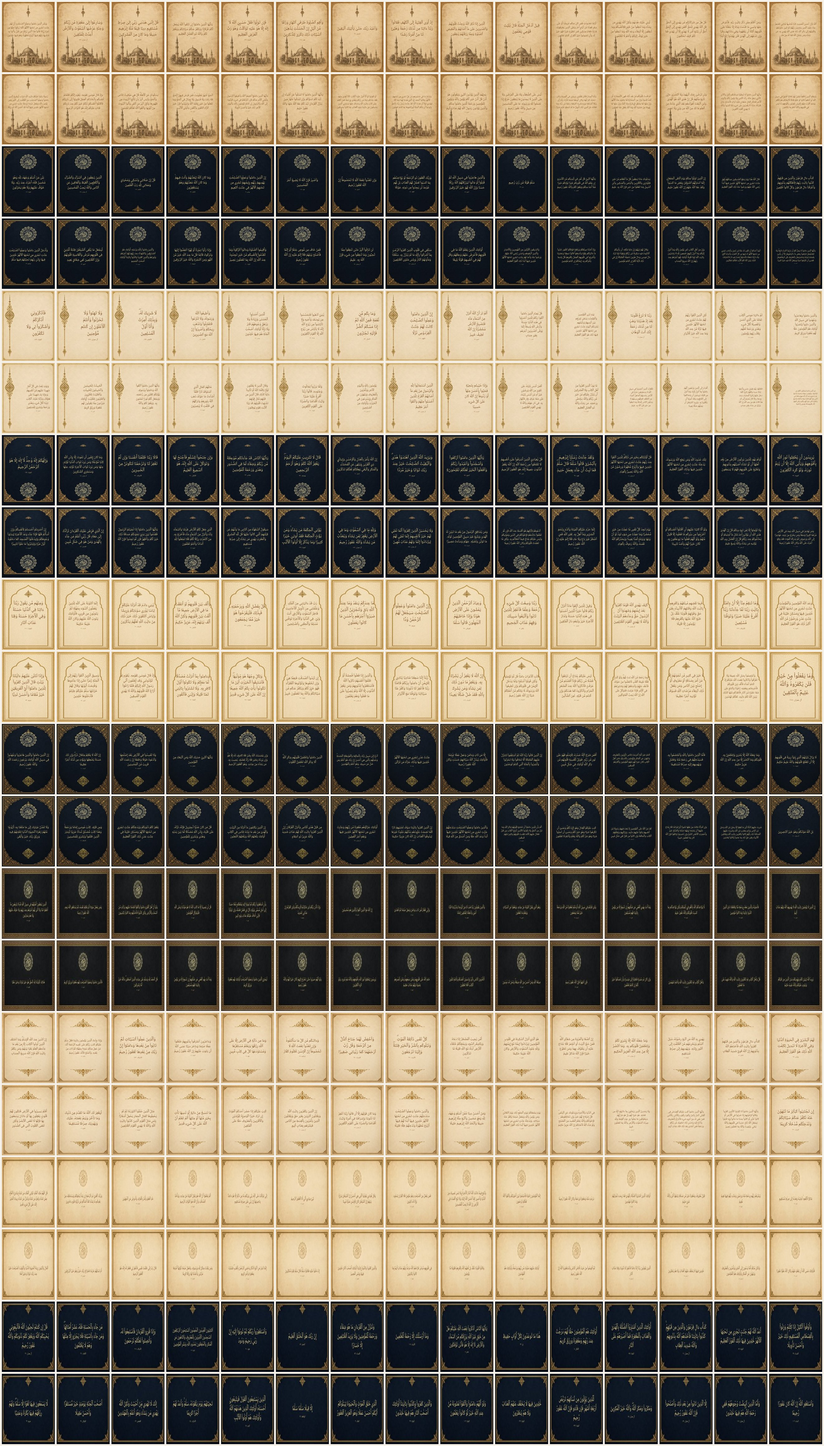
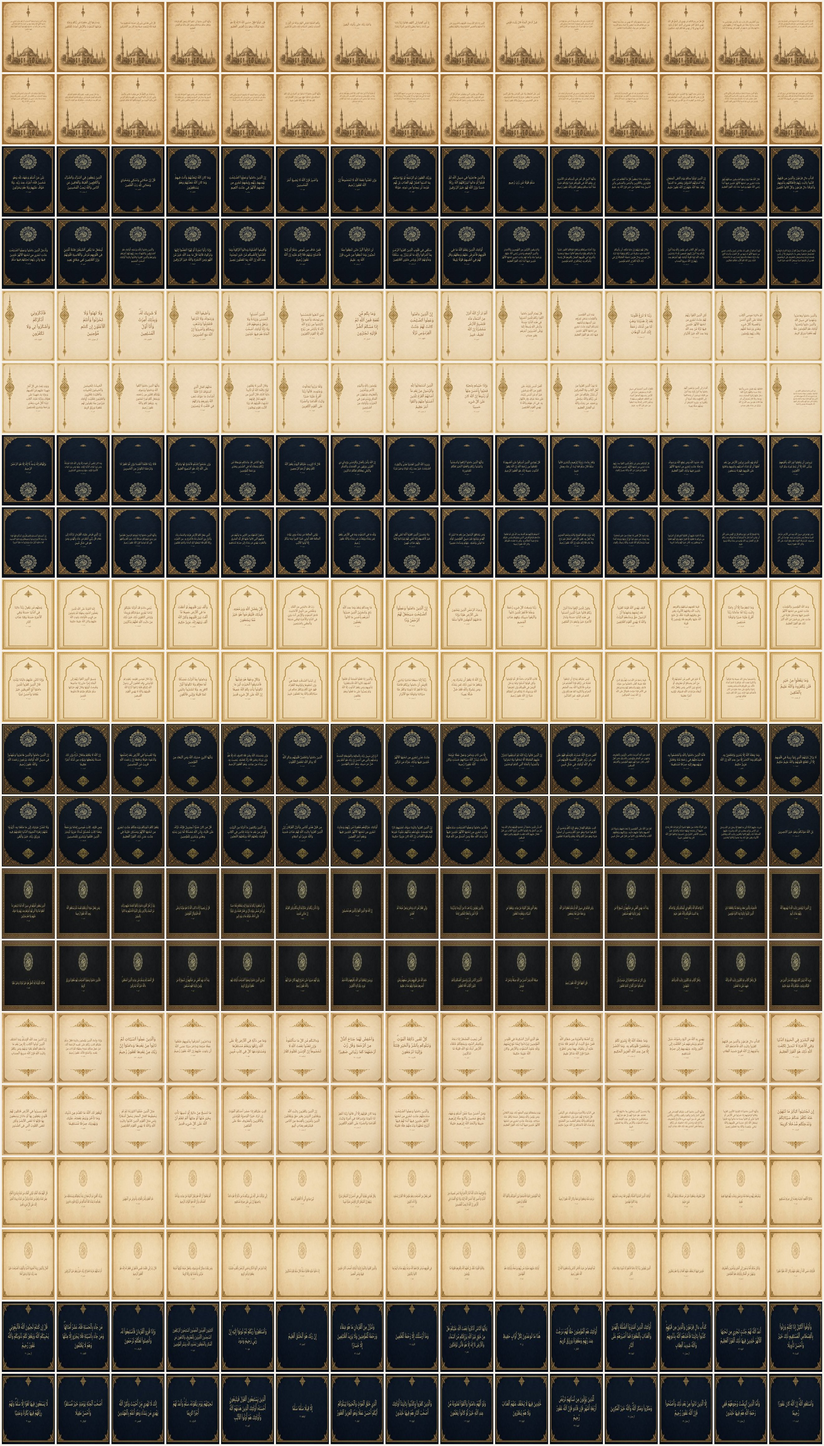
safe-band layout law: D01/D04/D05/D07 text fully clears ornaments (>=1.4cm)

diff --git a/deliverables/index.html b/deliverables/index.html
@@ -32,18 +32,18 @@
     <h2>👁 الخلفيات العشر للموافقة (النسخة النهائية v14 — ٣٠٠ آية مختلفة)</h2>
     <p style="color:#b9b2a0;font-size:.9rem;margin-bottom:10px">دي الخلفيات النهائية وفيها كل التعديلات المطلوبة. لو الصور قديمة عندك اضغط <b>Ctrl+Shift+R</b> لتحديث الصفحة.</p>
     <div class="grid" style="grid-template-columns:repeat(auto-fill,minmax(200px,1fr))">
-      <div><div style="color:#ffe9a8;font-weight:bold">خلفية ١</div><img class="prev" src="plates/plate_R1.jpg?v=15"></div>
-      <div><div style="color:#ffe9a8;font-weight:bold">خلفية ٢</div><img class="prev" src="plates/plate_R2.jpg?v=15"></div>
-      <div><div style="color:#ffe9a8;font-weight:bold">خلفية ٣</div><img class="prev" src="plates/plate_R3.jpg?v=15"></div>
-      <div><div style="color:#ffe9a8;font-weight:bold">خلفية ٤</div><img class="prev" src="plates/plate_R4.jpg?v=15"></div>
-      <div><div style="color:#ffe9a8;font-weight:bold">خلفية ٥</div><img class="prev" src="plates/plate_R5.jpg?v=15"></div>
-      <div><div style="color:#ffe9a8;font-weight:bold">خلفية ٦</div><img class="prev" src="plates/plate_R6.jpg?v=15"></div>
-      <div><div style="color:#ffe9a8;font-weight:bold">خلفية ٧</div><img class="prev" src="plates/plate_R7.jpg?v=15"></div>
-      <div><div style="color:#ffe9a8;font-weight:bold">خلفية ٨</div><img class="prev" src="plates/plate_R8.jpg?v=15"></div>
-      <div><div style="color:#ffe9a8;font-weight:bold">خلفية ٩</div><img class="prev" src="plates/plate_R9.jpg?v=15"></div>
-      <div><div style="color:#ffe9a8;font-weight:bold">خلفية ١٠</div><img class="prev" src="plates/plate_R10.jpg?v=15"></div>
+      <div><div style="color:#ffe9a8;font-weight:bold">خلفية ١</div><img class="prev" src="plates/plate_R1.jpg?v=20"></div>
+      <div><div style="color:#ffe9a8;font-weight:bold">خلفية ٢</div><img class="prev" src="plates/plate_R2.jpg?v=20"></div>
+      <div><div style="color:#ffe9a8;font-weight:bold">خلفية ٣</div><img class="prev" src="plates/plate_R3.jpg?v=20"></div>
+      <div><div style="color:#ffe9a8;font-weight:bold">خلفية ٤</div><img class="prev" src="plates/plate_R4.jpg?v=20"></div>
+      <div><div style="color:#ffe9a8;font-weight:bold">خلفية ٥</div><img class="prev" src="plates/plate_R5.jpg?v=20"></div>
+      <div><div style="color:#ffe9a8;font-weight:bold">خلفية ٦</div><img class="prev" src="plates/plate_R6.jpg?v=20"></div>
+      <div><div style="color:#ffe9a8;font-weight:bold">خلفية ٧</div><img class="prev" src="plates/plate_R7.jpg?v=20"></div>
+      <div><div style="color:#ffe9a8;font-weight:bold">خلفية ٨</div><img class="prev" src="plates/plate_R8.jpg?v=20"></div>
+      <div><div style="color:#ffe9a8;font-weight:bold">خلفية ٩</div><img class="prev" src="plates/plate_R9.jpg?v=20"></div>
+      <div><div style="color:#ffe9a8;font-weight:bold">خلفية ١٠</div><img class="prev" src="plates/plate_R10.jpg?v=20"></div>
     </div>
-    <img class="prev" src="plates/APPROVAL_10_backgrounds.jpg?v=15" style="margin-top:14px">
+    <img class="prev" src="plates/APPROVAL_10_backgrounds.jpg?v=20" style="margin-top:14px">
   </div>
 
   <div class="note">📤 عايز تبعتلي صورة مرجعية؟ <a href="/uploader" style="color:#ffe9a8;font-weight:bold;text-decoration:underline">اضغط هنا للرفع المباشر ⬆</a></div>
@@ -60,17 +60,17 @@
       <a class="dl" href="zips/Artivo_Mockups_Golden-Frame_part1.zip" download>تحميل الموك-أبس — الجزء ١<span class="sz">ZIP × ١٠٠</span></a>
       <a class="dl" href="zips/Artivo_Mockups_Golden-Frame_part2.zip" download>تحميل الموك-أبس — الجزء ٢<span class="sz">ZIP × ١٠٠</span></a>
       <a class="dl" href="zips/Artivo_Mockups_Golden-Frame_part3.zip" download>تحميل الموك-أبس — الجزء ٣<span class="sz">ZIP × ١٠٠</span></a>
-      <a class="dl" href="previews/MOCKUPS_newstyle_sample.jpg" target="_blank">معاينة الموك-أبس<span class="sz">JPG</span></a>
+      <a class="dl" href="previews/MOCKUPS_newstyle_sample.jpg?v=20" target="_blank">معاينة الموك-أبس<span class="sz">JPG</span></a>
     </div>
   </div>
 
   <div class="card">
     <h2>👁 معاينة التصميمات</h2>
     <p style="color:#b9b2a0;font-size:.9rem;margin-bottom:4px">٣٠٠ تصميم كامل بتشكيل عثماني صحيح (١٠ خلفيات × ٣٠ آية مختلفة عن الجنة والرحمة والمغفرة والهداية):</p>
-    <img class="prev" src="previews/CONTACT_SHEET_landscape_90.jpg" alt="معاينة بالعرض">
+    <img class="prev" src="previews/CONTACT_SHEET_landscape_90.jpg?v=20" alt="معاينة بالعرض">
     <p style="color:#b9b2a0;font-size:.9rem;margin:14px 0 4px">(كل التصميمات في شبكات حسب الفصيلة)</p>
-    <img class="prev" src="previews/CONTACT_SHEET_portrait_210.jpg" alt="معاينة بالطول">
-    <img class="prev" src="previews/CONTACT_SHEET_all_300.jpg?v=15" alt="كل التصاميم">
+    <img class="prev" src="previews/CONTACT_SHEET_portrait_210.jpg?v=20" alt="معاينة بالطول">
+    <img class="prev" src="previews/CONTACT_SHEET_all_300.jpg?v=20" alt="كل التصاميم">
   </div>
 
   <footer>٣٠٠ تصميم • نصوص قرآنية متحقَّق منها حرفًا حرفًا • بدون أي اختلاط أرقام عربية/لاتينية</footer>

diff --git a/tools/build_masters.py b/tools/build_masters.py
@@ -32,18 +32,50 @@ SEPIA = (120, 74, 30)
 GOLD = (240, 214, 140)
 # plate layout: (fx0, fx1, fy0, fy1, ink)
 CFG = {
- 1:(0.08,0.92, 0.24,0.60, SEPIA),   # sepia mosque portrait (top cleared below pendant tip 0.225)
+ 1:(0.13,0.87, 0.22,0.47, SEPIA),   # sepia mosque portrait (clear band 0.225 pendant - 0.473 minaret)
  2:(0.10,0.90, 0.40,0.70, GOLD),    # navy portrait, medallion top
  3:(0.44,0.93, 0.24,0.78, SEPIA),   # cream left vine
- 4:(0.08,0.92, 0.26,0.64, GOLD),    # navy, medallion bottom, fleuron top (cleared both ends)
- 5:(0.14,0.86, 0.26,0.78, SEPIA),   # mughal arch
+ 4:(0.12,0.88, 0.34,0.61, GOLD),    # navy, medallion bottom, fleuron top (tip at 0.33 cleared)
+ 5:(0.19,0.81, 0.33,0.75, SEPIA),   # mughal arch (below arch inner curve, inside opening)
  6:(0.08,0.92, 0.40,0.68, GOLD),    # navy rich, medallion top, rhombus bottom
- 7:(0.10,0.90, 0.46,0.80, GOLD),    # charcoal landscape, ring emblem top
+ 7:(0.15,0.85, 0.46,0.80, GOLD),    # charcoal landscape (clear of side flourishes & ring)
  8:(0.12,0.88, 0.32,0.70, SEPIA),   # cream double flourish
  9:(0.10,0.90, 0.46,0.80, SEPIA),   # cream landscape, ring top
  10:(0.08,0.92, 0.28,0.83, GOLD),   # navy landscape palmette
 }
 DPI300_W, DPI300_H = 7087, 9449  # 60x80cm
+
+# Measured SAFE text bands (top,bottom) for plates with near-text ornaments.
+# Block is centered inside the band and font shrinks until the analytic ink
+# bounding box (ascenders/descenders included) lies fully inside the band.
+SAFE_BAND = {1:(0.245,0.455), 4:(0.345,0.605), 5:(0.345,0.725), 7:(0.47,0.81)}
+from artivo_text import line_metrics
+
+def _layout_boxes(vtext, caption, plate_id, W, H, zcx, iw, ih, fs_override=None):
+    """Return (lines, fs, boxes, y0). boxes=(x0,y0,x1,y1) pixel boxes incl. asc/desc."""
+    fx0, fx1, fy0, fy1, ink = CFG[plate_id]
+    fs_cap = fs_override if fs_override else int(ih/6.4)
+    lines, fs = fit_layout(vtext, int(iw*0.94), int(ih*0.72), fs_cap)
+    cap_fs = int(fs*0.42)
+    asc, desc = line_metrics(FONT, fs)
+    asc_c, desc_c = line_metrics(FONT, cap_fs)
+    vh = int(len(lines)*fs*1.52) + cap_fs*2
+    if plate_id in SAFE_BAND:
+        st, sb = SAFE_BAND[plate_id]
+        cy = (st+sb)/2*H
+    else:
+        cy = (fy0+fy1)/2*H
+    y0 = int(cy) - vh//2
+    boxes = []
+    y = y0
+    from artivo_text import measure as _measure
+    for ln in lines:
+        w = _measure(ln, FONT, fs)
+        boxes.append((int(zcx-w/2), y+int(fs/2)-asc, int(zcx+w/2), y+int(fs/2)+desc))
+        y += int(fs*1.52)
+    cw = _measure(caption, FONT, cap_fs)
+    boxes.append((int(zcx-cw/2), y+int(fs*0.30)-asc_c, int(zcx+cw/2), y+int(fs*0.30)+desc_c))
+    return lines, fs, boxes, y0
 
 def fit_layout(text, iw, ih, fontsize_cap):
     """Return (wordsplit_lines, fontsize) that fits zone iw x ih."""
@@ -76,11 +108,23 @@ def build(plate_id, verse, out_path, proof_path=None):
     zcx = int((fx0 + fx1) / 2 * W)
     iw = int((fx1 - fx0) * W)
     ih = int((fy1 - fy0) * H)
-    # tighter inner margins: text never touches plate ornaments/frame
-    lines, fs = fit_layout(verse['text'], int(iw*0.94), int(ih*0.72), int(ih/6.4))
+    # Safe-band enforcement (plates with near-by ornaments):
+    # shrink font until the analytic ink bounding box clears the band.
+    if plate_id in SAFE_BAND:
+        st, sb = SAFE_BAND[plate_id]
+        fs_cap = int(ih / 6.4)
+        for _attempt in range(12):
+            lines, fs, boxes, y0 = _layout_boxes(verse['text'], verse['caption'], plate_id, W, H, zcx, iw, ih, fs_cap)
+            top = min(b[1] for b in boxes); bot = max(b[3] for b in boxes)
+            if top >= st*H and bot <= sb*H:
+                break
+            fs_cap = int(fs_cap * 0.93)
+    else:
+        lines, fs = fit_layout(verse['text'], int(iw*0.94), int(ih*0.72), int(ih/6.4))
+        cap_fs = int(fs * 0.42)
+        vh = int(len(lines) * fs * 1.52) + cap_fs * 2
+        y0 = int((fy0 + fy1) / 2 * H) - vh // 2
     cap_fs = int(fs * 0.42)
-    vh = int(len(lines) * fs * 1.52) + cap_fs * 2
-    y0 = int((fy0 + fy1) / 2 * H) - vh // 2
     ly = Image.new('RGBA', T, (0, 0, 0, 0))
     y = y0
     for ln in lines:
